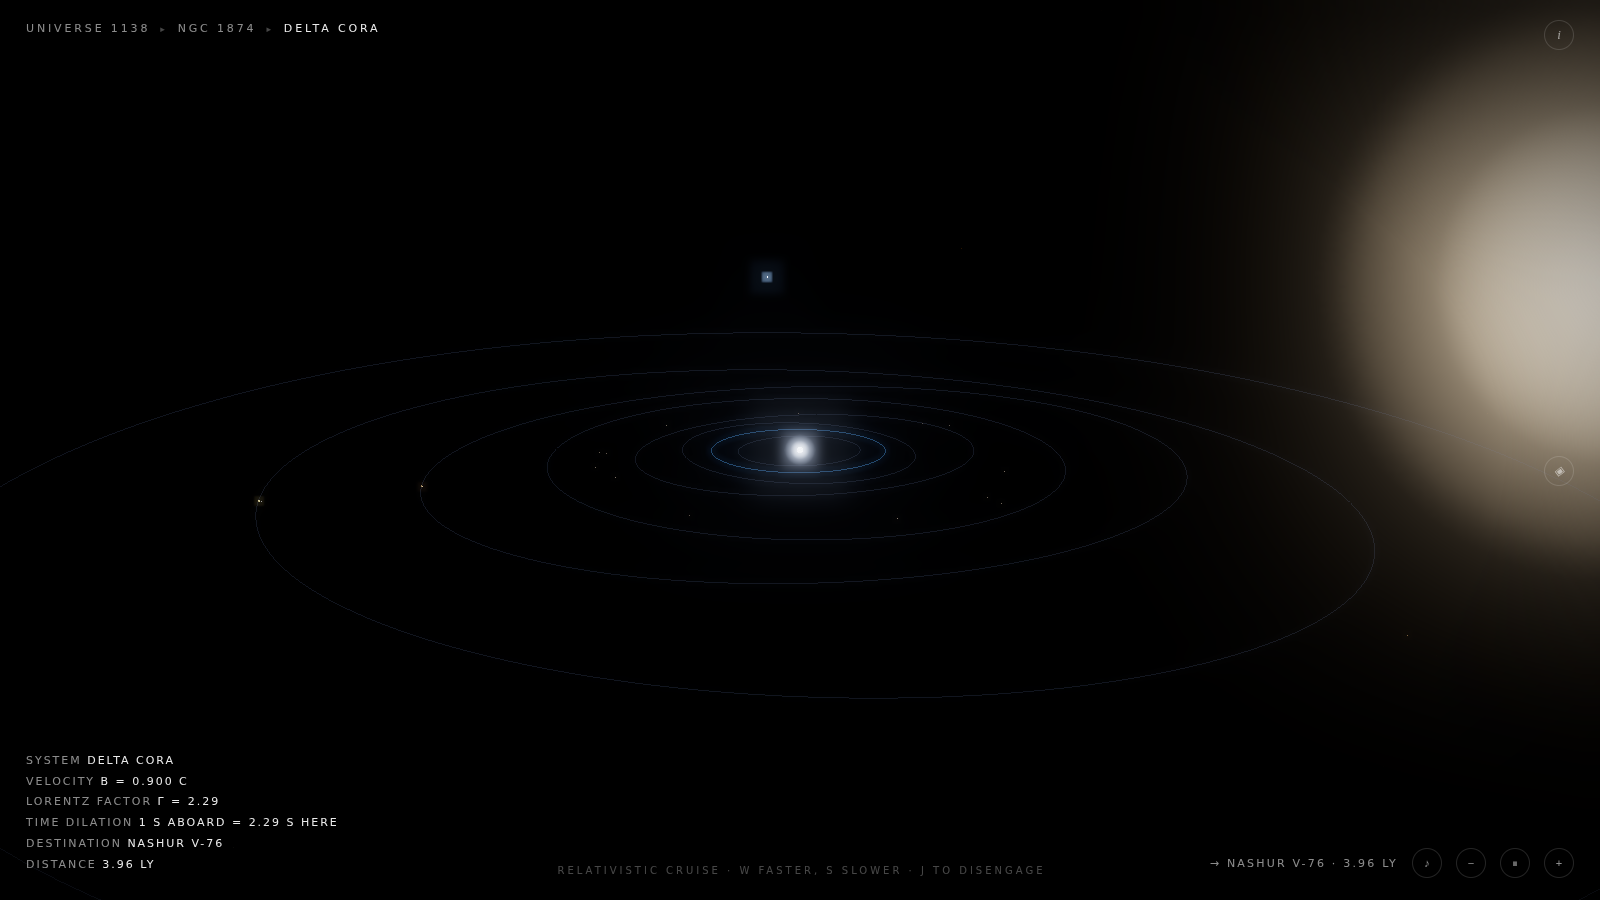
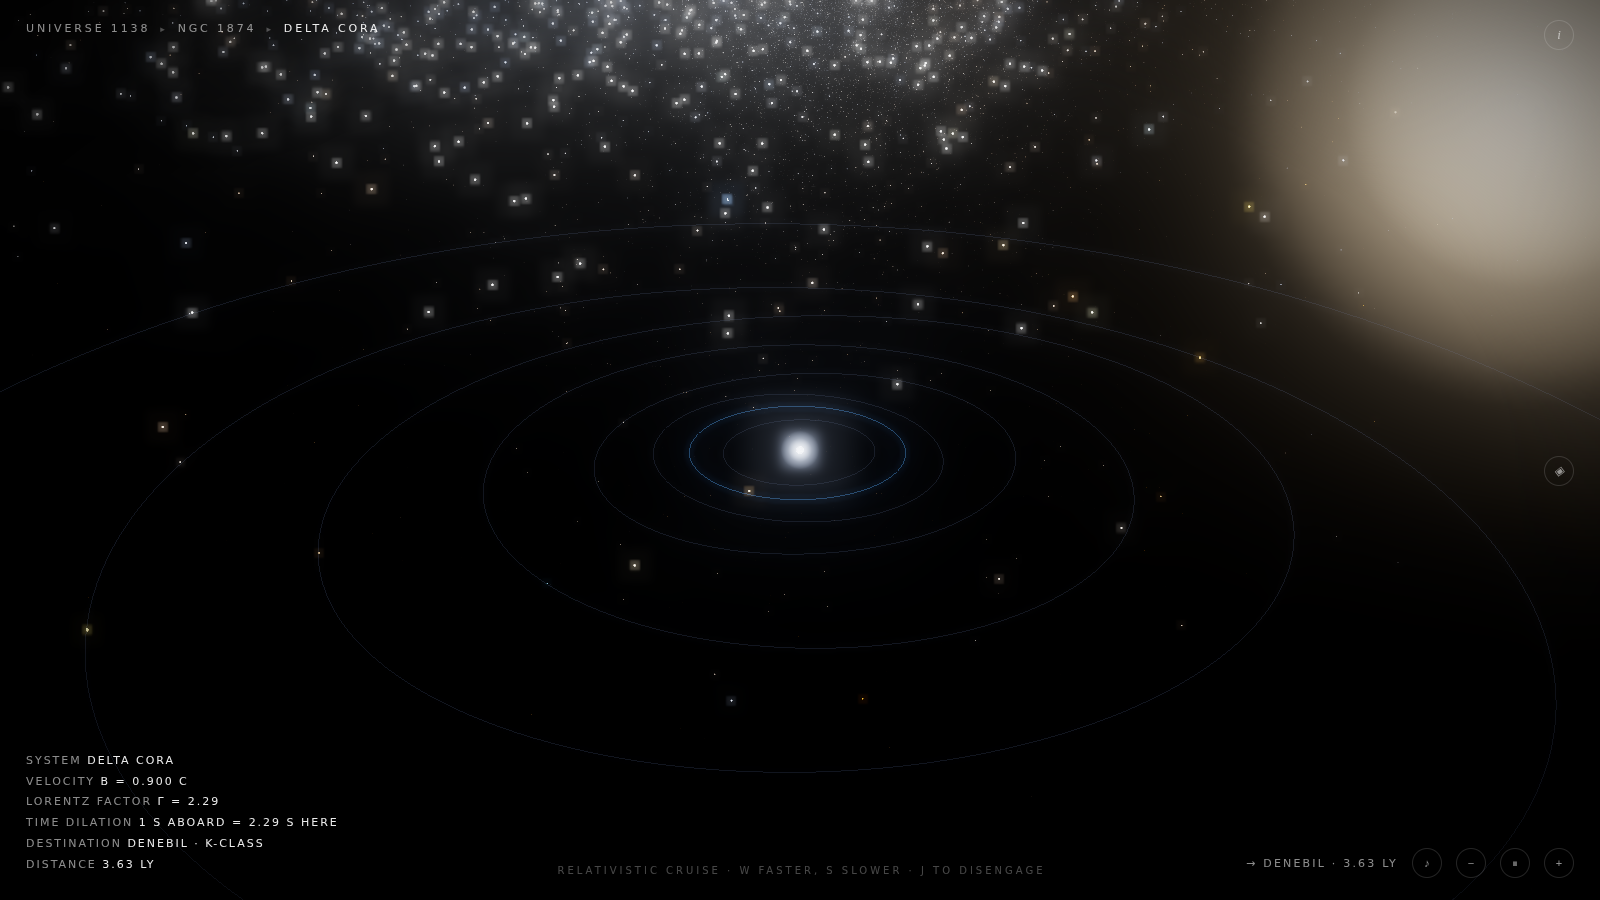
Rework interstellar arrival: carry momentum through the jump
Arrival no longer dumps you parked at the new star. The jump hands the
new system your old flight vector: you streak in from 3,600 units out
still at 0.62c, the deceleration bleeds off on the real clock, and only
when the speed is spent does the helm come back (controls re-enabled,
target re-seated ahead, an 'arrived' hint). The HUD reads 'decelerating'
during the run-in and gains the destination's spectral class (from its
blackbody ramp coordinate) when a star is locked.

Fixes from the previous lap:
- arriveAtStar guards indexOf: a system already torn down mid-flight
  returned -1 and would have popped the entire scale stack
- destination targets are direction-bucketed across the sky instead of
  brightest-only (which clustered toward the bulge): every bearing now
  finds a lock; measured coverage 1.000 over 400 random headings
- ejecta rings reseat once when a crater re-carves the ground, not by
  re-evaluating the height field every frame for static decals
- dead code removed (arrivalName, pp.hasImpacts); an 'ascend' cue plays
  as the new system resolves

Verified headless: lock row 'Denebil · K-class'; guard no-op on a stale
system; arrival lands in Denebil with rel.on and beta 0.34 falling, then
auto-disengages (beta 0.047, controls back, hint 'arrived · Denebil');
crater floor -12 m / rim +9 m with ring seat error 0.00; full scale
regression clean, no console errors.

Claude-Session: https://claude.ai/code/session_013RxB62vfVMieJtiNsVMmEs

diff --git a/src/system.js b/src/system.js
@@ -290,6 +290,19 @@ export class SystemScale {
 
     this.bloomSettings = { strength: 0.75, radius: 0.65, threshold: 0.0 };
     if (this.params.pulsar) this.noteOverride = PULSAR_NOTE;
+
+    // arriving from another star: come in hot on the old flight vector,
+    // still relativistic, and bleed the speed off inside the new system
+    if (ctx.arrive) {
+      this.rel.on = true;
+      this.rel.beta = 0.62;
+      this.rel.target = 0.04;
+      this.rel.dir.fromArray(ctx.arrive.dir).normalize();
+      this.camera.position.copy(this.rel.dir).multiplyScalar(-3600);
+      this.camera.position.y += 300;
+      this.camera.lookAt(this.camera.position.clone().add(this.rel.dir));
+      this.controls.enabled = false;
+    }
   }
 
   /** where this system sits inside its parent galaxy (for the true sky) */
@@ -318,7 +331,6 @@ export class SystemScale {
       this.scene.add(sky);
       this.skyRel = sky.userData.rel;
       this.skyTargets = sky.userData.targets || [];
-      this.arrivalName = starName(this.ctx.starSeed);
     } else {
       this.scene.add(makeSkyDome(P.seed, 18000));
     }
@@ -604,6 +616,15 @@ export class SystemScale {
       if (this._relKeys.has('KeyS')) this.rel.target = Math.max(this.rel.target - dt * 0.5, 0.02);
       this.rel.beta += (this.rel.target - this.rel.beta) * (1 - Math.exp(-1.6 * dt));
       this._trackDestination(dt);
+      // arrival momentum spent — hand the helm back
+      if (this.ctx.arrive && this.rel.beta < 0.09) {
+        this.ctx.arrive = null;
+        this.rel.on = false;
+        this.rel.target = 0.5;
+        this.controls.enabled = true;
+        this.controls.target.copy(this.camera.position).addScaledVector(this.rel.dir, 150);
+        this.app.hud.setHint('arrived · ' + this.params.name);
+      }
     } else if (this.rel.beta > 0.001) {
       this.rel.beta *= Math.exp(-2.5 * dt);
     } else {
@@ -742,8 +763,11 @@ export class SystemScale {
         ['lorentz factor', 'γ = ' + this.rel.gamma.toFixed(2)],
         ['time dilation', '1 s aboard = ' + this.rel.gamma.toFixed(2) + ' s here'],
       ];
-      if (this.rel.lock) {
-        rows.push(['destination', this.rel.lockName]);
+      if (this.ctx.arrive) {
+        rows.push(['destination', P.name + ' · decelerating']);
+      } else if (this.rel.lock) {
+        const Tlock = 1500 * Math.pow(20, this.rel.lock.temp);
+        rows.push(['destination', `${this.rel.lockName} · ${spectralClass(Tlock)}-class`]);
         rows.push(['distance', Math.max(this.rel.dist, 0).toFixed(2) + ' ly']);
       } else {
         rows.push(['destination', 'steer toward a star to lock']);
@@ -1061,6 +1085,7 @@ export class SystemScale {
   /** lock the star nearest the flight vector; close the distance to it */
   _trackDestination(dt) {
     if (!this.skyTargets || !this.skyTargets.length || this._arriving) return;
+    if (this.ctx.arrive) return; // still decelerating into this system
     const d = this.rel.dir;
     let best = null, bestDot = 0.9; // must be within ~25° of the bow
     for (const t of this.skyTargets) {

diff --git a/src/starfield.js b/src/starfield.js
@@ -136,23 +136,33 @@ export function makeGalaxySkyFromWithin(starData, time, vrot, viewerPos, radius)
   group.add(stars);
   group.userData.rel = relUniforms;
 
-  // the brightest stars ahead become real destinations for interstellar
-  // travel: keep their sky directions + a deterministic identity each
-  const cand = [];
-  for (let i = 0; i < j; i++) {
-    cand.push({ i, b: bright[i] });
+  // bright stars become destinations for interstellar travel. Bucket the sky
+  // by direction and keep each bucket's brightest, so wherever the bow points
+  // there is somewhere to go — then add the overall brightest for density
+  // along the band.
+  const buckets = new Map();
+  for (let idx = 0; idx < j; idx++) {
+    const dx = pos[idx * 3], dy = pos[idx * 3 + 1], dz = pos[idx * 3 + 2];
+    const inv = 1 / Math.hypot(dx, dy, dz);
+    const key = (Math.round(dx * inv * 3) + 4) * 81 + (Math.round(dy * inv * 3) + 4) * 9 + (Math.round(dz * inv * 3) + 4);
+    const cur = buckets.get(key);
+    if (!cur || bright[idx] > cur.b) buckets.set(key, { i: idx, b: bright[idx] });
   }
+  const cand = [];
+  for (let idx = 0; idx < j; idx++) cand.push({ i: idx, b: bright[idx] });
   cand.sort((a, b) => b.b - a.b);
+  const chosen = new Set();
+  for (const c of buckets.values()) chosen.add(c.i);
+  for (let k = 0; k < 320 && k < cand.length; k++) chosen.add(cand[k].i);
   const targets = [];
-  const seen = cand.slice(0, 520);
-  for (const c of seen) {
-    const dx = pos[c.i * 3], dy = pos[c.i * 3 + 1], dz = pos[c.i * 3 + 2];
+  for (const i of chosen) {
+    const dx = pos[i * 3], dy = pos[i * 3 + 1], dz = pos[i * 3 + 2];
     const inv = 1 / Math.hypot(dx, dy, dz);
     const dir = new THREE.Vector3(dx * inv, dy * inv, dz * inv);
-    // stable neighbor seed from quantized sky direction
+    // stable neighbor identity from the quantized sky direction
     const q = 40;
     const seed = hash(Math.round(dir.x * q), Math.round(dir.y * q), Math.round(dir.z * q), 0x5741) >>> 0;
-    targets.push({ dir, seed, temp: temp[c.i] });
+    targets.push({ dir, seed, temp: temp[i] });
   }
   group.userData.targets = targets;
 

diff --git a/src/surface.js b/src/surface.js
@@ -695,7 +695,9 @@ export class SurfaceScale {
     ring.renderOrder = 2;
     this.craterGroup.add(ring);
     ring.userData.follow = () => { ring.position.y = this.heightAt(x, z) + 0.6; };
-    ring.userData.follow();
+    // the ground just moved under every ring — reseat them once, here,
+    // instead of re-evaluating the height field per frame for static decals
+    for (const c of this.craterGroup.children) c.userData.follow();
     return im;
   }
 
@@ -772,7 +774,6 @@ export class SurfaceScale {
       this.scene.remove(m.head); this.scene.remove(m.trail);
       m.head.material.dispose(); m.trail.geometry.dispose(); m.trail.material.dispose();
       this.meteor = null;
-      this.pp.hasImpacts = true;
       if (this.app.audio) this.app.audio.warp('dive'); // a concussion
     }
   }
@@ -876,7 +877,6 @@ export class SurfaceScale {
       this._flash.sp.scale.multiplyScalar(1 + dt * 1.5);
       if (g <= 0) { this.scene.remove(this._flash.sp); this._flash.sp.material.dispose(); this._flash = null; }
     }
-    for (const c of this.craterGroup.children) c.userData.follow?.();
 
     // movement (skip while the hyperzoom still owns the camera)
     if (this.controls.enabled) {

diff --git a/src/main.js b/src/main.js
@@ -333,12 +333,14 @@ class App {
   /** interstellar arrival: replace the current system with the neighbor star */
   arriveAtStar(fromSys, starSeed) {
     if (this._warping) return;
+    const depth = this.stack.indexOf(fromSys);
+    if (depth < 1) return; // system already torn down mid-flight
     this._warping = true;
     this.hud.hideCard();
     this.audio.warp('dive');
     // a flash of starlight streaking past, then the new system fades in
     this.hud.veil(new THREE.Color(0.55, 0.62, 0.85));
-    const depth = this.stack.indexOf(fromSys);
+    const arrive = { dir: fromSys.rel.dir.toArray() };
     setTimeout(() => {
       const gpos = fromSys.ctx.galaxyPos;
       while (this.stack.length > depth) {
@@ -346,10 +348,11 @@ class App {
         sc.exit();
         sc.dispose();
       }
-      const sys = new SystemScale(this, { starSeed, galaxyPos: gpos });
+      const sys = new SystemScale(this, { starSeed, galaxyPos: gpos, arrive });
       this.stack.push(sys);
       sys.enter();
       this._syncScale();
+      this.audio.warp('ascend');
       this._warping = false;
     }, 260);
   }

diff --git a/README.md b/README.md
@@ -102,14 +102,17 @@ temperature ramp (blue-white ahead, embers behind), intensity beams as δ³
 (the headlight effect), and the system's clocks visibly outrun yours by γ —
 throttle to 0.985c and watch a year pass in your minute. Every formula is
 the real one — and it is now real **transportation**: steer the bow onto
-any star ahead and it locks as a destination with a name and a light-year
-distance; hold your heading and you close the gap and *arrive*, the system
-torn down and rebuilt around the star you aimed at. The galaxy is a place
-you can cross.
+any star ahead and it locks as a destination with a name, a spectral class,
+and a light-year distance; hold your heading and you close the gap and
+*arrive* — still moving. You streak into the new system on your old flight
+vector, bleed off the last of the β while its worlds resolve around you, and
+only then does the helm come back. The galaxy is a place you can cross.
 
 ![relativistic cruise at 0.93c](docs/screenshots/18-relativistic.png)
 
 ![interstellar destination locked](docs/screenshots/22-interstellar.png)
+
+![arriving at the destination still moving at 0.3c](docs/screenshots/24-arrival.png)
 
 And hold **]**: **deep time**. The star's whole life rides a lever — real
 scaling tracks (`t_MS = 10·M^−2.5 Gyr`), the slow main-sequence brightening,
